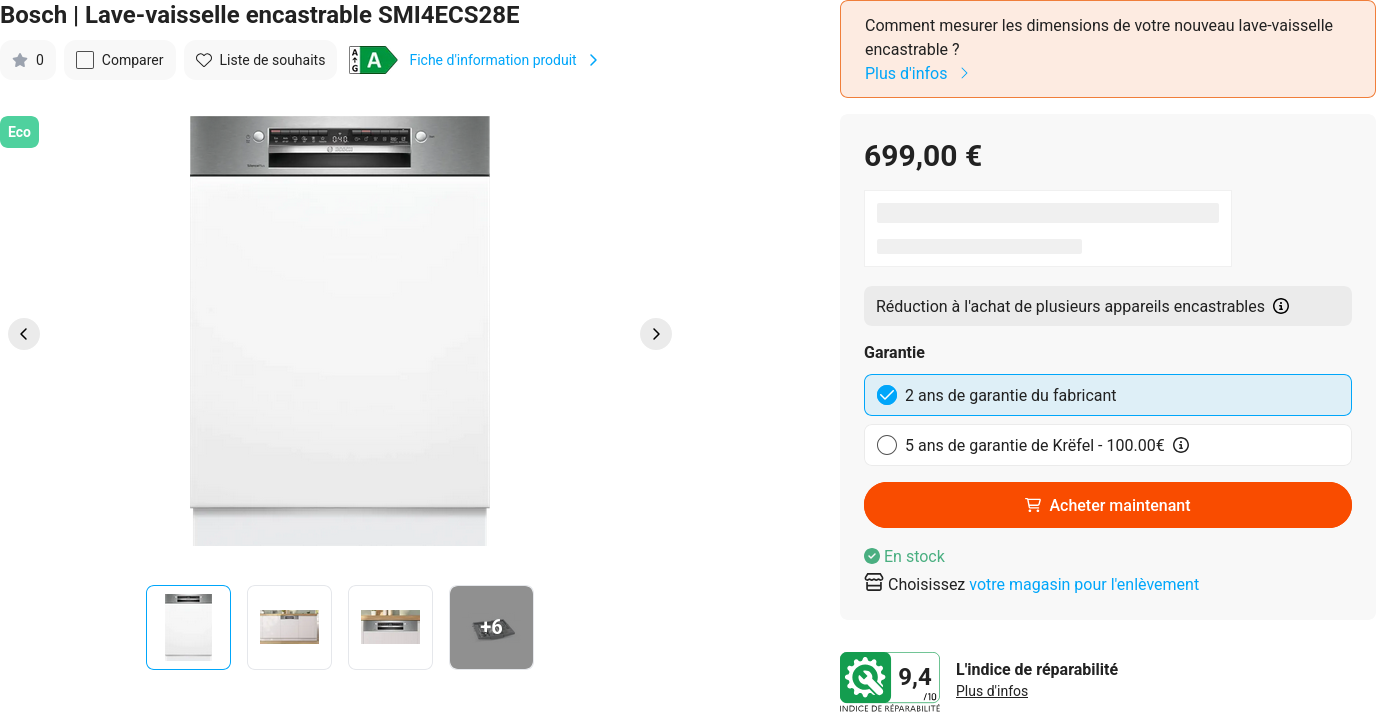
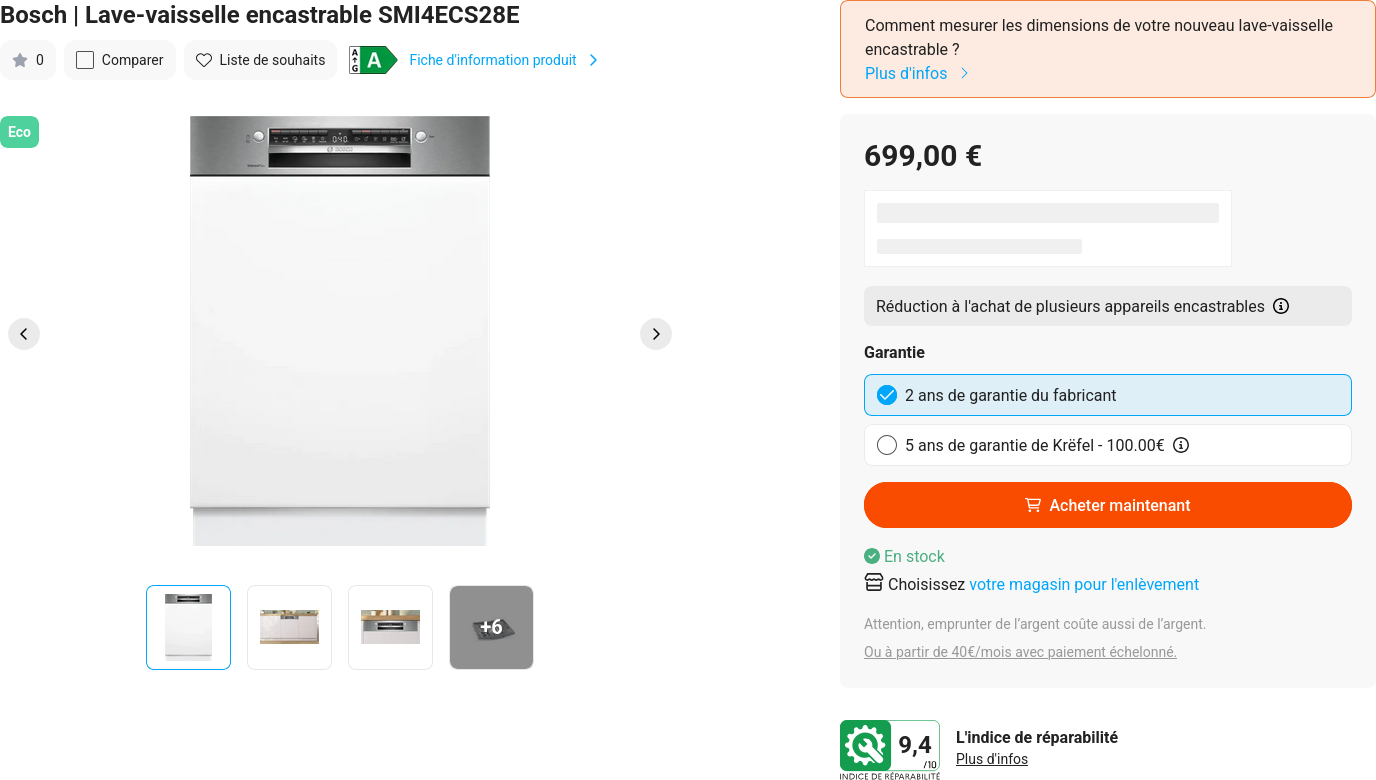
Latest scraping prices: Wed Jul  2 05:32:45 UTC 2025

diff --git a/scrapes/prices/krefel-SMI4ECS28E.md b/scrapes/prices/krefel-SMI4ECS28E.md
@@ -18,6 +18,10 @@ En stock
 
 Choisissez votre magasin pour l'enlèvement
 
+Attention, emprunter de l’argent coûte aussi de l’argent.
+
+Ou à partir de 40€/mois avec paiement échelonné.
+
 ### 9,4
 
 #### L'indice de réparabilité
